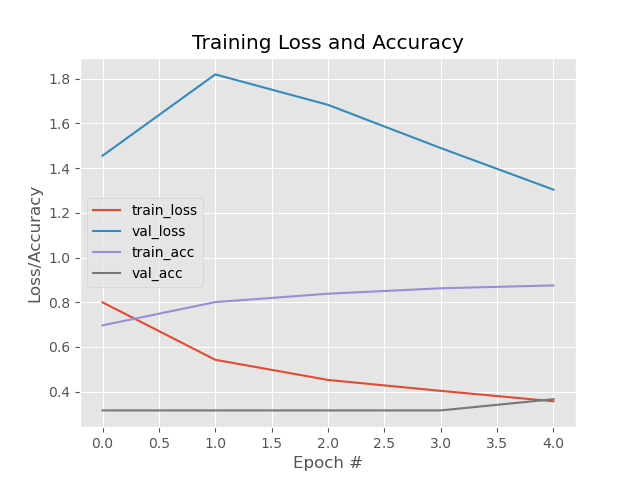
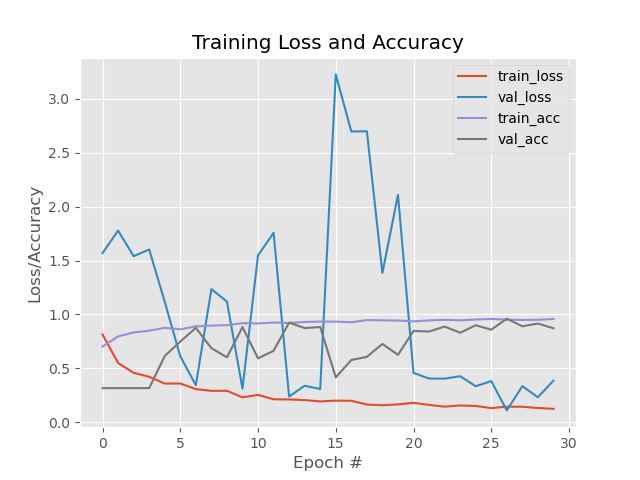
update

diff --git a/train-project/nn_train_resnet101.py b/train-project/nn_train_resnet101.py
@@ -1,0 +1,121 @@
+from CNN_net import SimpleVGGNet
+from sklearn.preprocessing import LabelBinarizer
+from sklearn.model_selection import train_test_split
+from sklearn.metrics import classification_report
+from keras.optimizers.legacy import SGD
+from keras.preprocessing.image import ImageDataGenerator
+import utils_paths
+import matplotlib.pyplot as plt
+import cv2
+import numpy as np
+import argparse
+import random
+import pickle
+from tensorflow.keras.applications.resnet import ResNet101
+import os
+
+plt.switch_backend('agg')
+
+# 读取数据和标签
+print("------开始读取数据------")
+data = []
+labels = []
+
+# 拿到图像数据路径，方便后续读取
+imagePaths = sorted(list(utils_paths.list_images('./dataset')))
+random.seed(42)
+random.shuffle(imagePaths)
+
+image_size = 256
+# 遍历读取数据
+for imagePath in imagePaths:
+    # 读取图像数据
+    image = cv2.imread(imagePath)
+    image = cv2.resize(image, (image_size, image_size))
+    data.append(image)
+    # 读取标签
+    label = imagePath.split(os.path.sep)[-2]
+    labels.append(label)
+
+data = np.array(data, dtype="float") / 255.0
+labels = np.array(labels)
+
+# 数据集切分
+(trainX, testX, trainY, testY) = train_test_split(data,labels, test_size=0.25, random_state=42)
+
+# 转换标签为one-hot encoding格式
+lb = LabelBinarizer()
+trainY = lb.fit_transform(trainY)
+testY = lb.transform(testY)
+
+# 数据增强处理
+aug = ImageDataGenerator(
+    rotation_range=30, 
+    width_shift_range=0.1,
+    height_shift_range=0.1, 
+    shear_range=0.2, 
+    zoom_range=0.2,
+    horizontal_flip=True, 
+    fill_mode="nearest")
+
+# 建立卷积神经网络
+model = ResNet101(
+    include_top=True,
+    weights=None,
+    input_tensor=None,
+    input_shape=None,
+    pooling=None,
+    classes=len(lb.classes_)
+)
+#model = SimpleVGGNet.build(width=256, height=256, depth=3,classes=len(lb.classes_))
+
+# 设置初始化超参数
+
+# 学习率
+INIT_LR = 0.01
+# Epoch  
+# 这里设置 5 是为了能尽快训练完毕，可以设置高一点，比如 30
+EPOCHS = 30   
+# Batch Size
+BS = 32
+
+# 损失函数，编译模型
+print("------开始训练网络------")
+
+opt = SGD(learning_rate=INIT_LR, decay=INIT_LR / EPOCHS)
+model.compile(loss="categorical_crossentropy", optimizer=opt,metrics=["accuracy"])
+
+# 训练网络模型
+H = model.fit(
+    aug.flow(trainX, trainY, batch_size=BS),
+    validation_data=(testX, testY), 
+    steps_per_epoch=len(trainX) // BS,
+    epochs=EPOCHS
+)
+
+
+# 测试
+print("------测试网络------")
+predictions = model.predict(testX, batch_size=32)
+print(classification_report(testY.argmax(axis=1), predictions.argmax(axis=1), target_names=lb.classes_))
+
+# 绘制结果曲线
+N = np.arange(0, EPOCHS)
+plt.style.use("ggplot")
+plt.figure()
+plt.plot(N, H.history["loss"], label="train_loss")
+plt.plot(N, H.history["val_loss"], label="val_loss")
+plt.plot(N, H.history["accuracy"], label="train_acc")
+plt.plot(N, H.history["val_accuracy"], label="val_acc")
+plt.title("Training Loss and Accuracy")
+plt.xlabel("Epoch #")
+plt.ylabel("Loss/Accuracy")
+plt.legend()
+plt.savefig('./cnn_plot.png')
+
+# 保存模型
+print("------保存模型------")
+model.save('./cnn.model.h5')
+f = open('./cnn_lb.pickle', "wb")
+f.write(pickle.dumps(lb))
+f.close()

diff --git a/predict-project/predict.py b/predict-project/predict.py
@@ -22,9 +22,9 @@ Label = [
     "searchbar",
     "switch"
     ]
-# testPath = "./test/button.png"
-testPath = "./test/keybord.jpg"
-testPath = "./test/searchbar.png"
+testPath = "./test/button.png"
+testPath = "./test/keybord3.jpg"
+testPath = "./test/searchbar3.jpg"
 
 images = []
 image = cv2.imread(testPath)
@@ -40,4 +40,4 @@ pred = model.predict(images)
 print(pred)
 
 max_ = np.argmax(pred)
-print('test.jpg的预测结果为：',Label[max_])
+print(testPath,'的预测结果为：',Label[max_])
